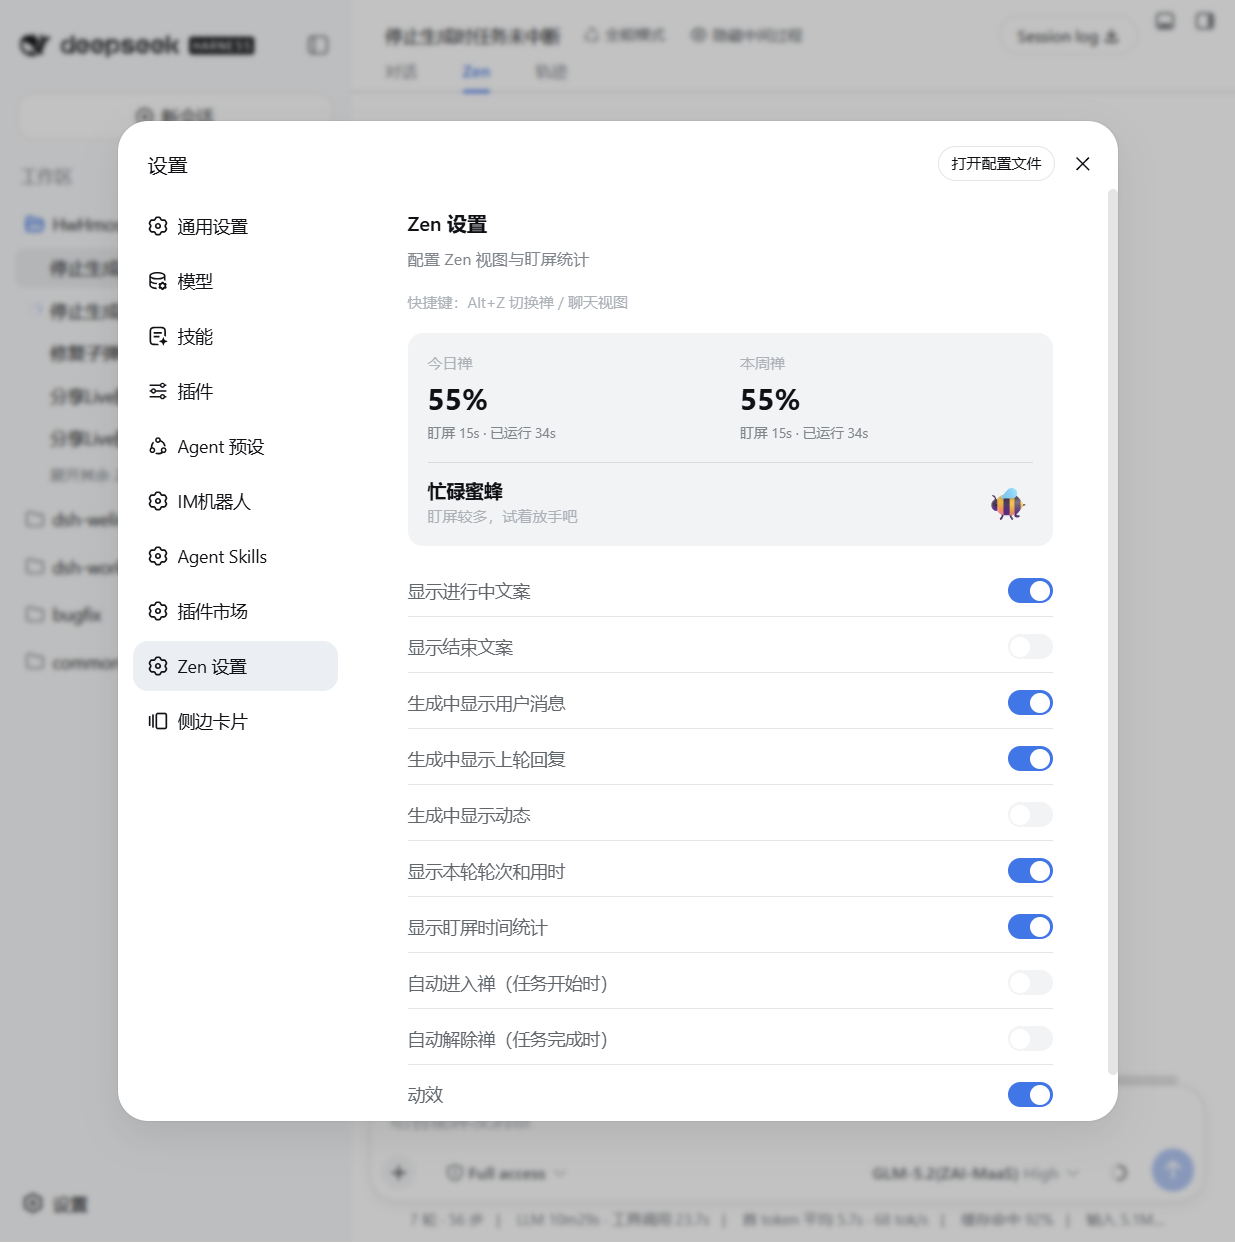
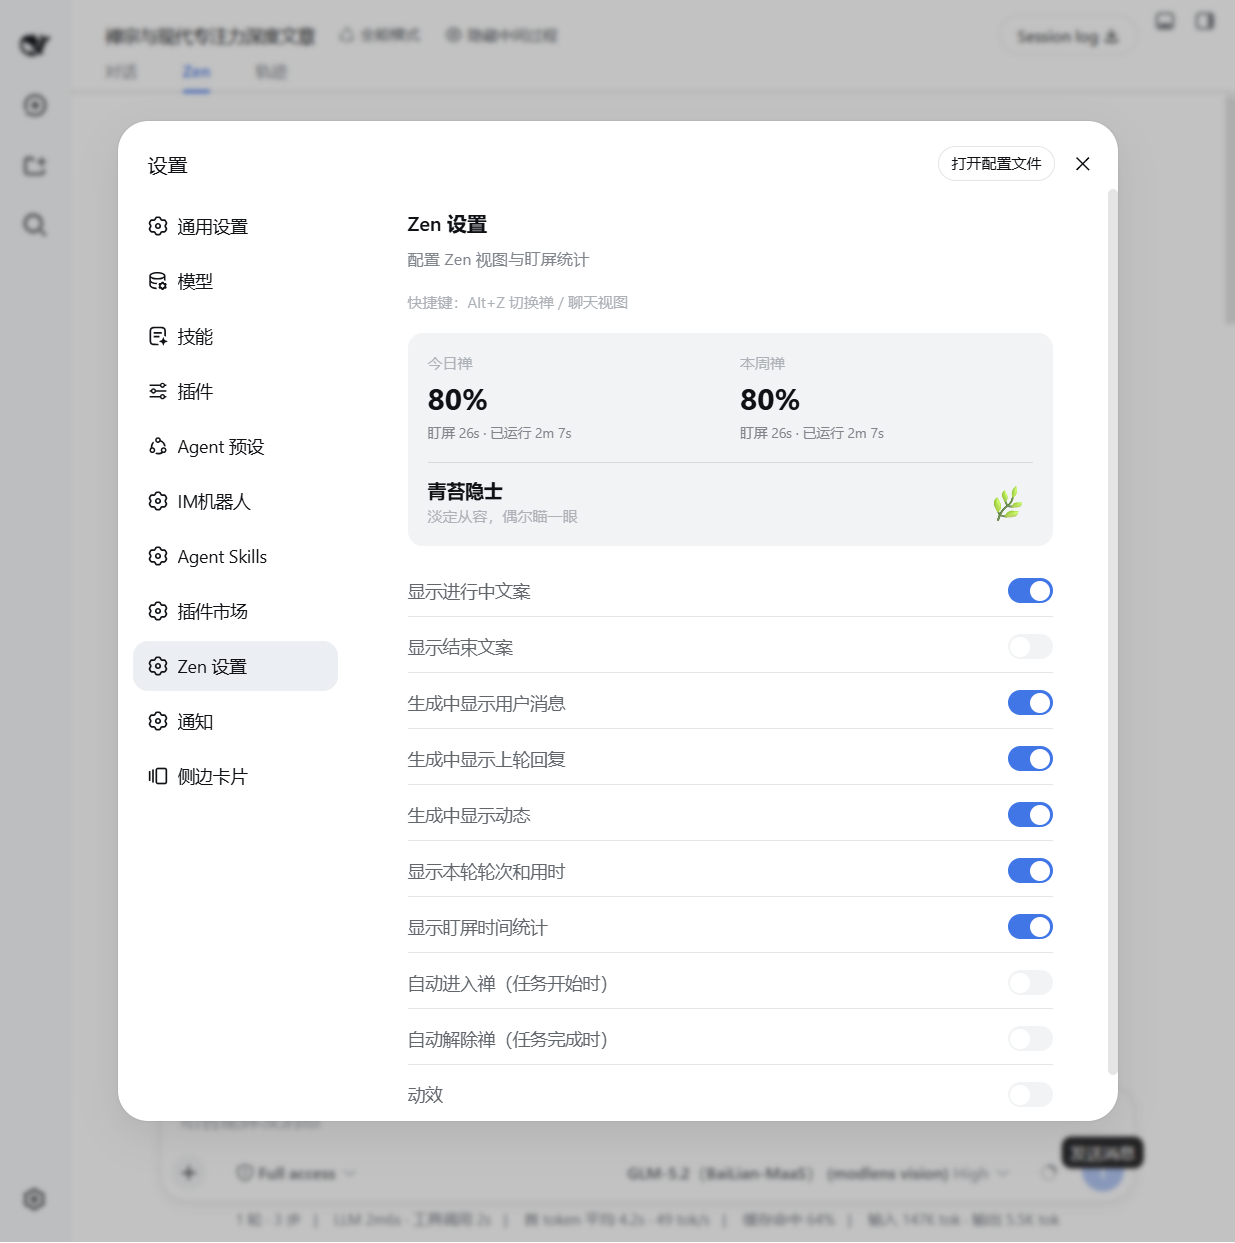
docs: update screenshots — add running-state Zen view, refresh done/settings shots
- screenshots: add zen-running.png (generating state), retake zen-view.png with a longer reply, retake settings.png, drop chat-hide.png
- all screenshots now taken with the sidebar collapsed
- README/README.zh-CN/package.json/PUBLISHING.md: point to the new screenshot set

diff --git a/README.md b/README.md
@@ -11,9 +11,9 @@ actually watching the screen, and reports a daily / weekly Zen score.
 
 ## Screenshots
 
-Zen view (done state) | Settings | Chat view with the hide-toggle
+Zen view (while generating) | Zen view (done) | Zen settings
 :---: | :---: | :---:
-![Zen view](docs/screenshots/zen-view.png) | ![Zen settings](docs/screenshots/settings.png) | ![Chat hide toggle](docs/screenshots/chat-hide.png)
+![Zen view while generating](docs/screenshots/zen-running.png) | ![Zen view done](docs/screenshots/zen-view.png) | ![Zen settings](docs/screenshots/settings.png)
 
 ## Features
 

diff --git a/README.zh-CN.md b/README.zh-CN.md
@@ -8,9 +8,9 @@
 
 ## 截图
 
-禅视图（完成态） | 设置面板 | 对话视图 + 隐藏按钮
+禅视图（生成中） | 禅视图（完成态） | 设置面板
 :---: | :---: | :---:
-![Zen view](docs/screenshots/zen-view.png) | ![Zen settings](docs/screenshots/settings.png) | ![Chat hide toggle](docs/screenshots/chat-hide.png)
+![Zen view（生成中）](docs/screenshots/zen-running.png) | ![Zen view（完成态）](docs/screenshots/zen-view.png) | ![Zen settings](docs/screenshots/settings.png)
 
 ## 功能
 
